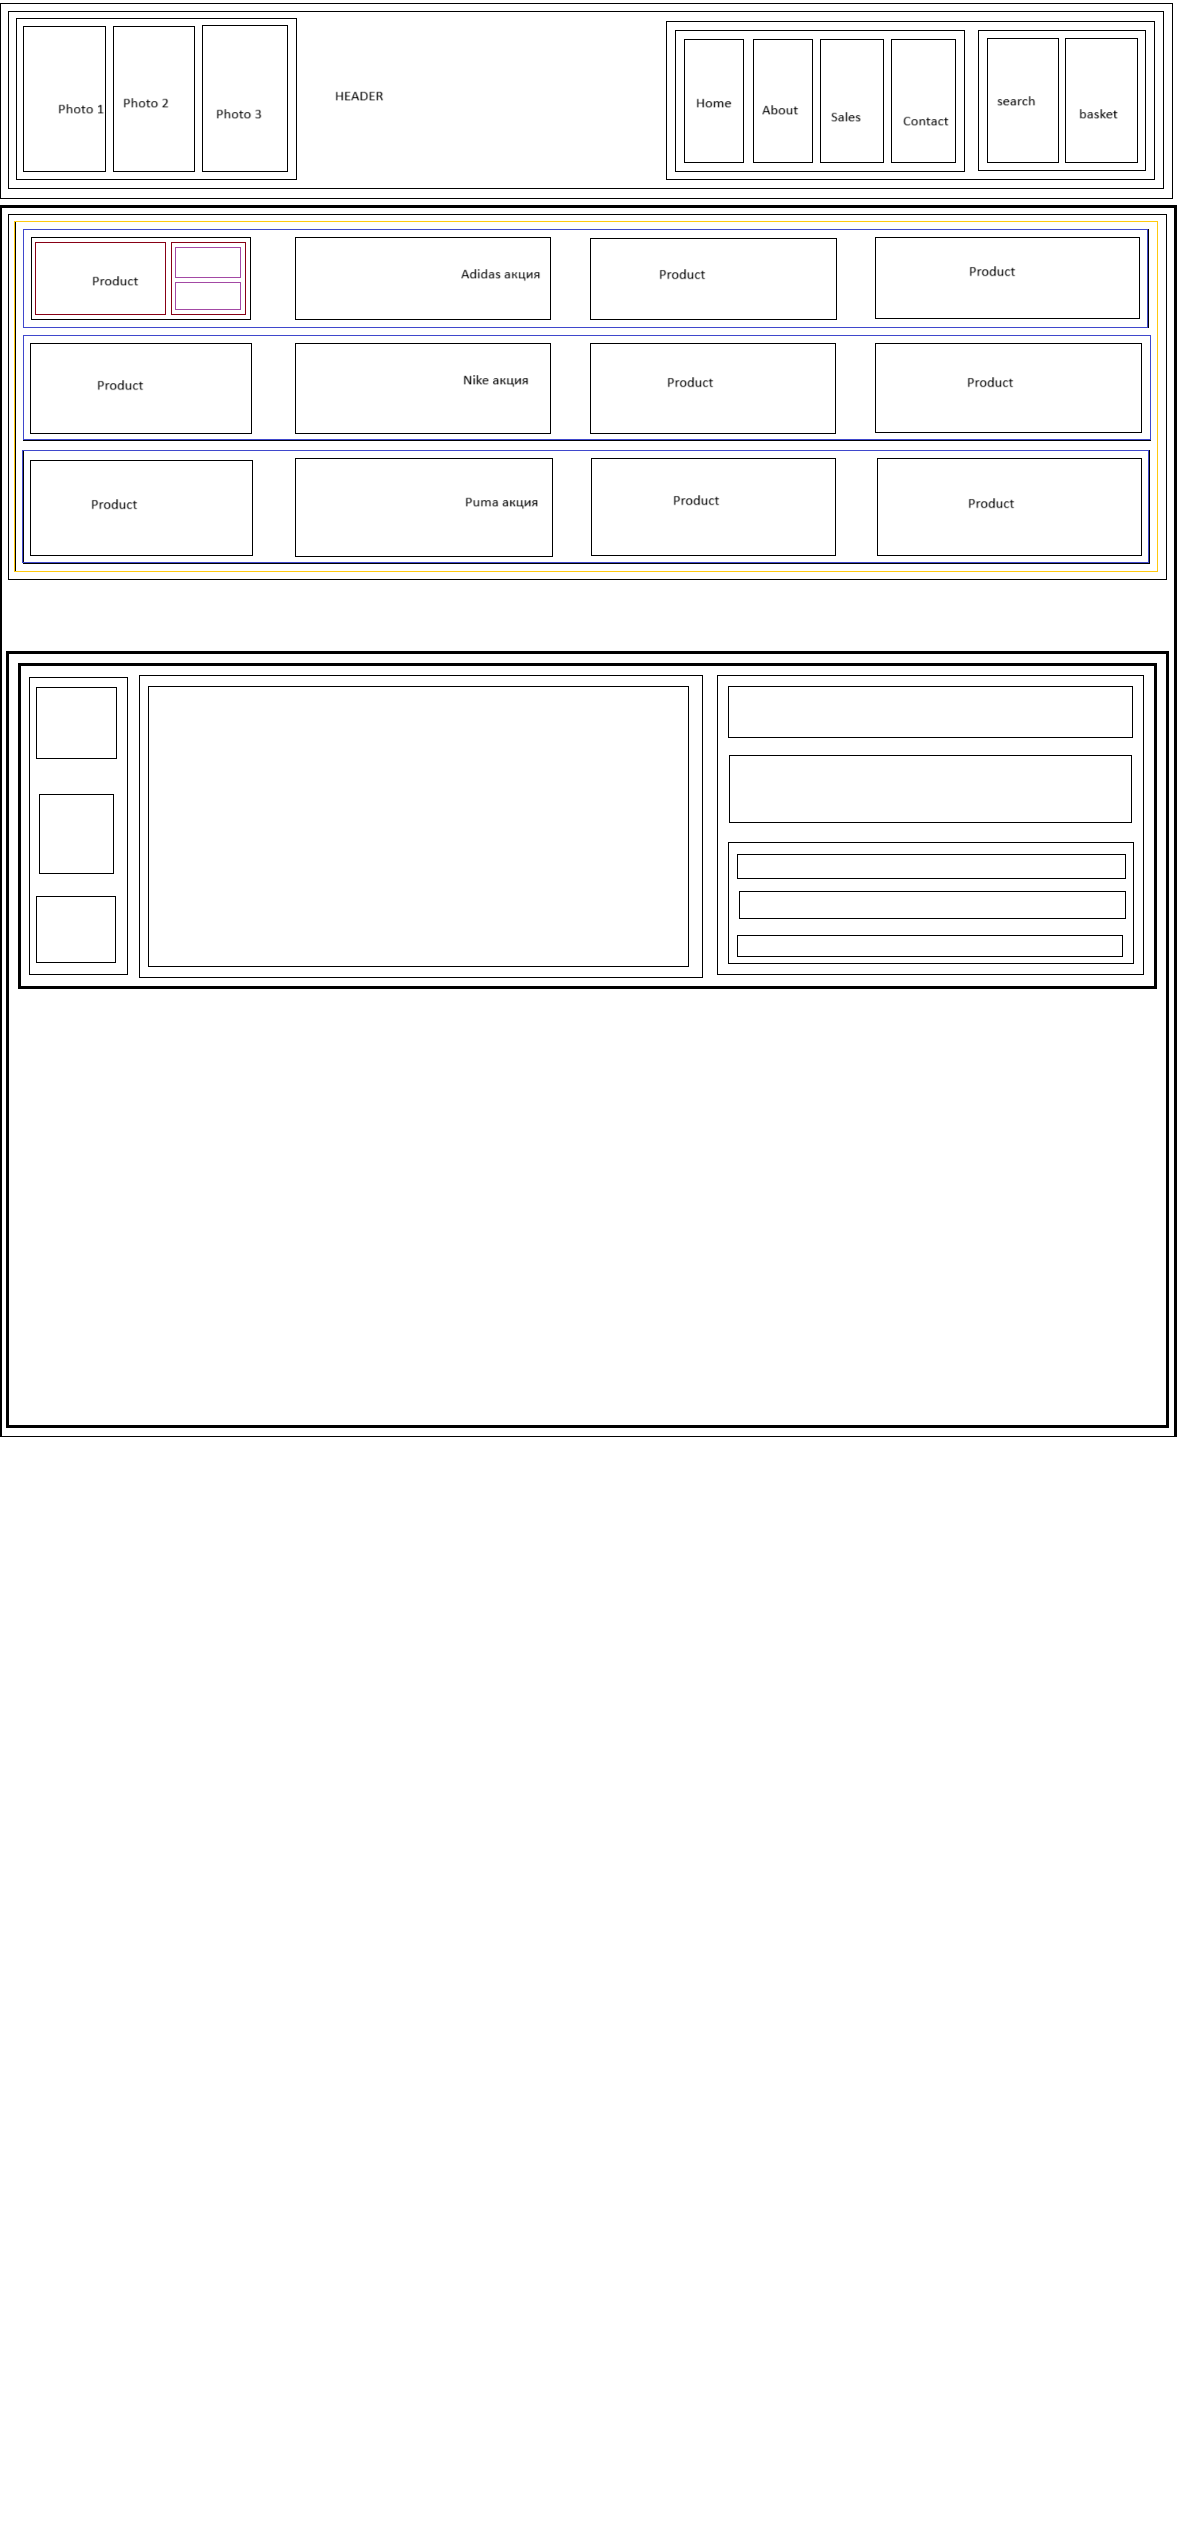
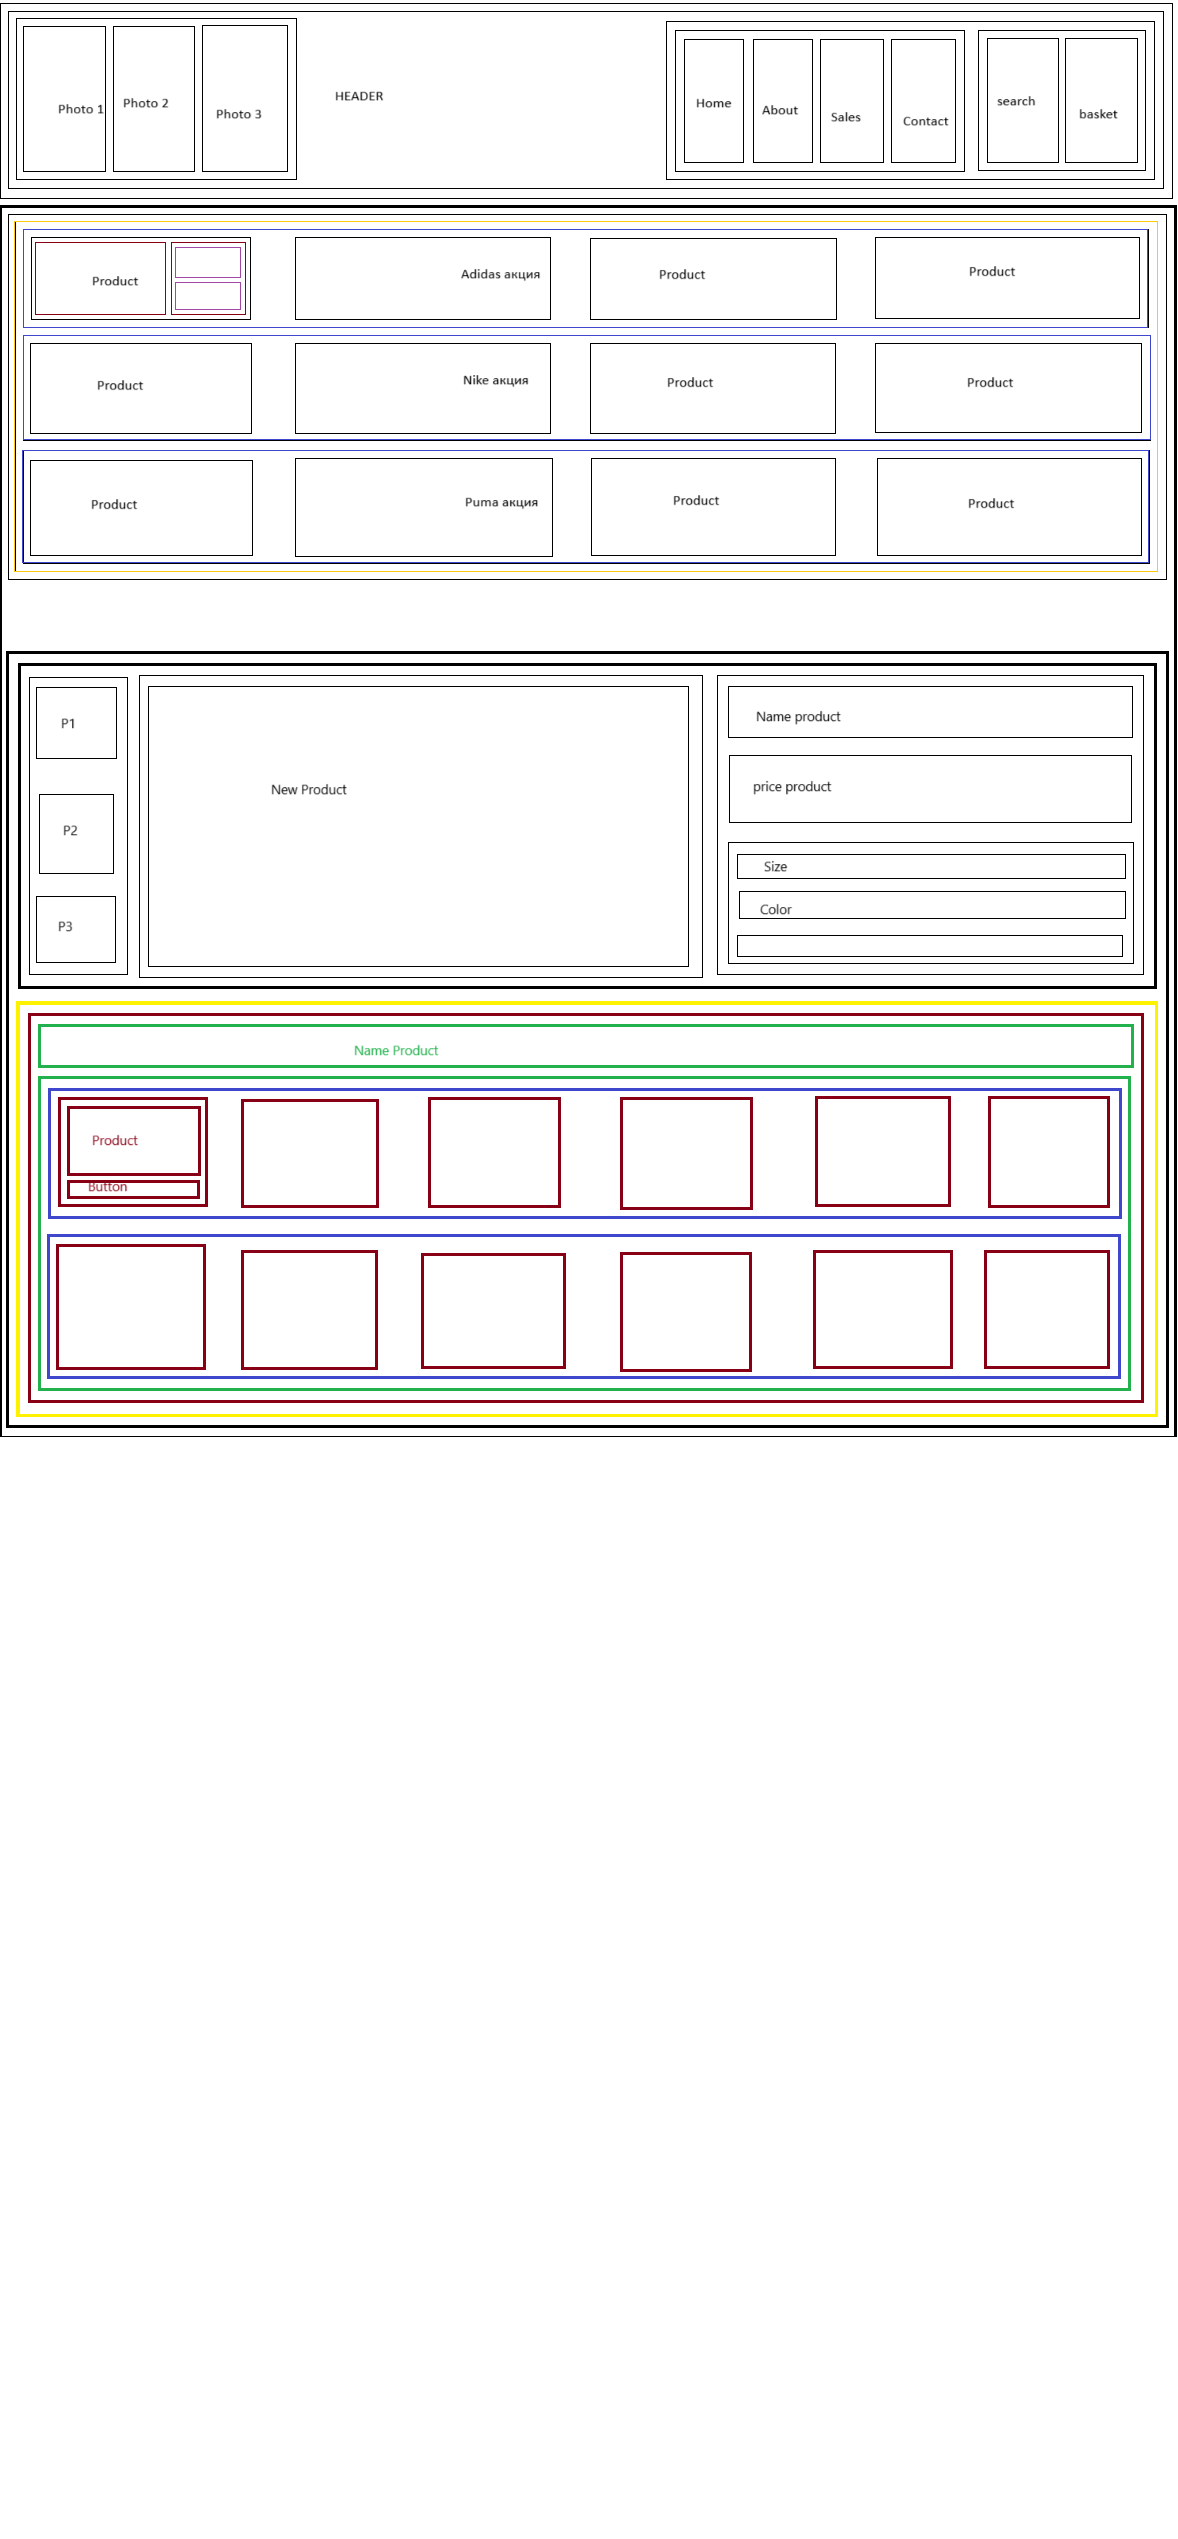
product

Changed region(s): [[0.0, 0.3734, 1.0, 0.5601], [0.5195, 0.4667, 0.6418, 0.4978], [0.6418, 0.28, 0.7029, 0.3111]]

diff --git a/src/App.js b/src/App.js
@@ -153,13 +153,13 @@ function App() {
               </div>
               
               <div class="product">
-                  <div>
+                  <div className='left-btn'>
                       <button> &lt; </button>
                   </div>
                   <div class="main-shoes">
                       <img src={NewShoes} alt=""/>
                   </div>
-                  <div>
+                  <div className='right-btn'>
                       <button> &gt; </button>
                   </div>
               </div>
@@ -200,6 +200,138 @@ function App() {
                       </div>
                   </div>
               </div>
+          </div>
+
+          <div className="product-price">
+            <div className="product-container">
+              <div className='product-word'>
+                <div className='word-container'>Өнімдер</div>
+              </div>
+              <div className='price-product'>
+                <div className='basket-container1'>
+                  <div className='first-container'>
+
+                    <div className='container1'>
+                      <div className='product-image1'><img src={newShoes} alt="" id='a'/></div>
+                      
+                      <div className='product-button'>
+                        <div>Аяқ-киім</div>
+                        <div>35 490 теңге</div>
+                        <div><button className='product-btn'>Сатып алу</button></div>
+                      </div>
+                    </div>
+                    <div className='container2'>
+                      <div className='product-image2'><img src={newShoes2} alt="" id='2'/></div>
+                      <div className='product-button'>
+                        <div>Аяқ-киім</div>
+                        <div>35 490 теңге</div>
+                        <div><button className='product-btn'>Сатып алу</button></div>
+                      </div>
+                    </div>
+
+                    <div className="container3">
+                      <div className='product-image3'><img src={newshoes4} alt="" id='3'/></div>
+                      <div className='product-button'>
+                        <div>Аяқ-киім</div>
+                        <div>35 490 теңге</div>
+                        <div><button className='product-btn'>Сатып алу</button></div>
+                      </div>
+                    </div>
+
+                    <div className="container4">  
+                      <div className='product-image4'><img src={newShoes5} alt="" id='4'/></div>
+                      <div className='product-button'>
+                        <div>Аяқ-киім</div>
+                        <div>35 490 теңге</div>
+                        <div><button className='product-btn'>Сатып алу</button></div>
+                      </div>
+                    </div>
+
+                    <div className="container5">
+                      <div className='product-image5'><img src={newshoes4} alt="" id='5'/></div>
+                      <div className='product-button'>
+                        <div>Аяқ-киім</div>
+                        <div>35 490 теңге</div>
+                        <div><button className='product-btn'>Сатып алу</button></div>
+                      </div>
+                    </div> 
+
+                    <div className="container6">
+                      <div className='product-image6'><img src={newShoes5} alt="" id='6'/></div>
+                      <div className='product-button'>
+                        <div>Аяқ-киім</div>
+                        <div>35 490 теңге</div>
+                        <div><button className='product-btn'>Сатып алу</button></div>
+                      </div>
+                    </div>
+                  </div>
+                </div>
+                
+                <div className='price-product'>
+                <div className='basket-container1'>
+                  <div className='first-container'>
+
+                    <div className='container1'>
+                      <div className='product-image1'><img src={newShoes} alt="" id='a'/></div>
+                      
+                      <div className='product-button'>
+                        <div>Аяқ-киім</div>
+                        <div>35 490 теңге</div>
+                        <div><button className='product-btn'>Сатып алу</button></div>
+                      </div>
+                    </div>
+                    <div className='container2'>
+                      <div className='product-image2'><img src={newShoes2} alt="" id='2'/></div>
+                      <div className='product-button'>
+                        <div>Аяқ-киім</div>
+                        <div>35 490 теңге</div>
+                        <div><button className='product-btn'>Сатып алу</button></div>
+                      </div>
+                    </div>
+
+                    <div className="container3">
+                      <div className='product-image3'><img src={newshoes4} alt="" id='3'/></div>
+                      <div className='product-button'>
+                        <div>Аяқ-киім</div>
+                        <div>35 490 теңге</div>
+                        <div><button className='product-btn'>Сатып алу</button></div>
+                      </div>
+                    </div>
+
+                    <div className="container4">  
+                      <div className='product-image4'><img src={newShoes5} alt="" id='4'/></div>
+                      <div className='product-button'>
+                        <div>Аяқ-киім</div>
+                        <div>35 490 теңге</div>
+                        <div><button className='product-btn'>Сатып алу</button></div>
+                      </div>
+                    </div>
+
+                    <div className="container5">
+                      <div className='product-image5'><img src={newshoes4} alt="" id='5'/></div>
+                      <div className='product-button'>
+                        <div>Аяқ-киім</div>
+                        <div>35 490 теңге</div>
+                        <div><button className='product-btn'>Сатып алу</button></div>
+                      </div>
+                    </div> 
+
+                    <div className="container6">
+                      <div className='product-image6'><img src={newShoes5} alt="" id='6'/></div>
+                      <div className='product-button'>
+                        <div>Аяқ-киім</div>
+                        <div>35 490 теңге</div>
+                        <div><button className='product-btn'>Сатып алу</button></div>
+                      </div>
+                    </div>
+                  </div>
+                </div>
+                <div className='basket-container2'>
+                </div>
+              </div>
+
+              </div>
+            </div>
           </div>
 
         </main>

diff --git a/src/App.css b/src/App.css
@@ -140,7 +140,7 @@ main{
         transform: translate3d(0px, 0, 0);
     }
     100%{
-        transform: translate3d(-2100px, 0, 0);
+        transform: translate3d(-1000px, 0, 0);
     }
 }
 
@@ -251,7 +251,7 @@ div img {
     border-radius: 0%;
 }
 
-div button{
+.left-btn button, .right-btn button{
     display: flex;
     width: 60px;
     height: 60px;
@@ -323,4 +323,99 @@ select{
 
 label{
     color: #707795;
+}
+
+
+
+/*---------------------Product------------------------------*/
+
+.product-price{
+  display: flex;
+}
+
+.product-container{
+  display: flex;
+  flex-direction: column;
+  padding: 10px;
+}
+
+.product-word{
+  padding: 50px;
+}
+
+.word-container{
+  display: flex;
+  align-items: center;
+  justify-content: center;
+  font-size: 28px;
+}
+
+
+.price-product{
+  display: flex;
+  flex-direction: column;
+}
+
+.first-container{
+  display: grid;
+  grid-template-columns: repeat(6, 1fr);
+  gap: 50px;
+  padding: 20px;
+}
+
+.container1, .container2, .container3, .container4, .container5, .container6{
+  display: flex;
+  flex-direction: column;
+  align-items: center;
+  justify-content: center;
+  padding: 20px;
+  background-color: #f9f9f9;
+  border-radius: 10px;
+  box-shadow: 0 4px 8px rgba(0, 0, 0, 0.1);
+  max-width: 300px;
+  margin: 20px auto;
+}
+
+.basket-container1{
+  display: flex;
+  flex-direction: column;
+}
+
+.product-image1 img, .product-image2 img, .product-image3 img, .product-image4 img, .product-image5 img, .product-image6 img{
+  width: 160px;
+  height: auto;
+  object-fit: cover;
+  border-radius: 8px;
+  margin-bottom: 15px;
+}
+
+.product-button{
+  display: flex;
+  flex-direction: column;
+  text-align: center;
+  font-size: 18px;
+  font-weight: bold;
+  color: #333;
+  margin-top: 10px;
+}
+
+.product-button div{
+  font-size: 20px;
+
+}
+
+.product-btn{
+  width: 160px;
+  border: none;
+  padding: 10px 20px;
+  border-radius: 5px;
+  background-color: #0057A8;
+  color: white;
+  cursor: pointer;
+  transition: background-color 0.3s ease;
+}
+
+.product-btn:hover{
+  background-color: #003f7f;
+
 }
